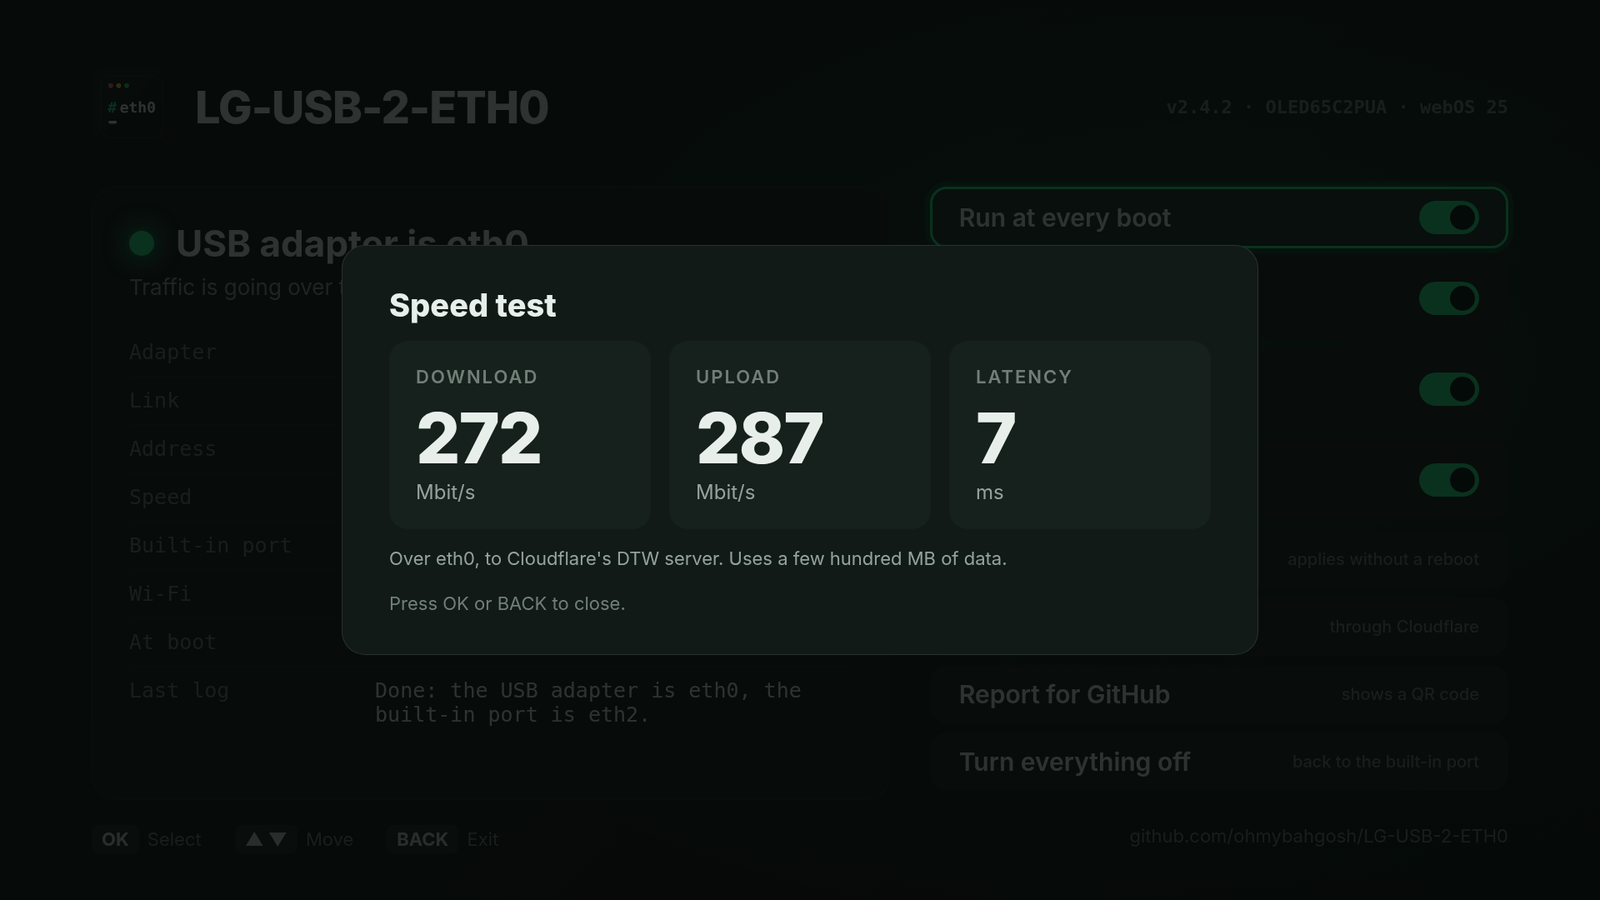
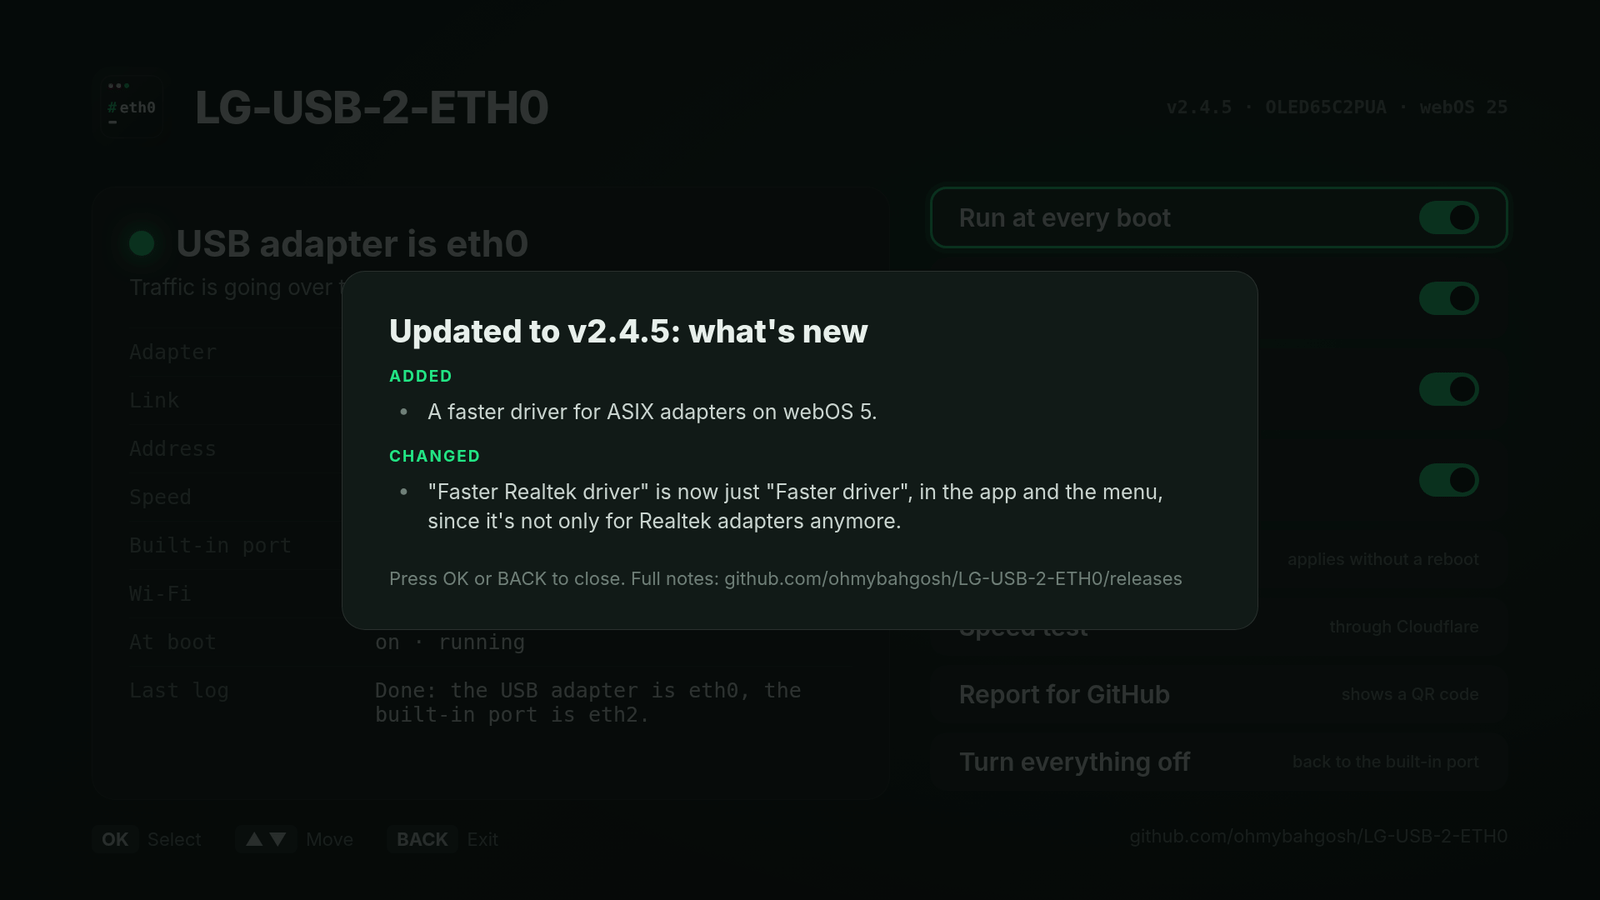
2.4.5: a faster driver for ASIX adapters on webOS 5
get-driver now offers OCT0PUSCRIME's build of ASIX's AX88179/178A driver
(v1.19.0) for kernel 4.4.84-612.jcl4tv.40 (2020 UN7300), whose kernel has
no ASIX driver.  It's pinned to a fixed commit and SHA-256 like the
others, and tested on a 55UN7300PUF with a TP-Link UE306 (discussion #3).

"Faster Realtek driver" is now "Faster driver" in the app and the menu,
and the app's confirm screen names whoever built the driver, from the new
driverPage field in status --json.  Screenshots retaken.

Changed region(s): [[0.2188, 0.3111, 0.75, 0.6844], [0.5938, 0.2489, 0.75, 0.28], [0.2812, 0.2489, 0.3125, 0.28]]

diff --git a/webos-app/src/app.js b/webos-app/src/app.js
@@ -225,7 +225,7 @@
         $('tog-watch').className = 'tog' + (bootOn && h.watch ? ' on' : '');
         $('tog-wifi').className = 'tog' + (bootOn && h.wifiFallback ? ' on' : '');
         // The faster-driver row only appears when it fits this TV: a driver is
-        // known for this exact kernel and the adapter is a Realtek one, or a
+        // known for this exact kernel and the adapter is one it supports, or a
         // driver is already set up (so it can be turned off again).
         var offer = s.driverOffer || 'none';
         var driverBtn = document.querySelector('[data-action="driver"]');
@@ -398,8 +398,9 @@
                     act('Faster driver off', installArgs('--no-module'));
                 });
             } else if (state.driverOffer === 'available') {
-                confirmThen('Use the faster Realtek driver?',
-                    'This downloads a driver module built for this exact TV kernel by DonZoomik (github.com/DonZoomik/webos-r8152), checks its checksum, and loads it at every boot.  ' +
+                var page = (state.driverPage || '').replace(/^https:\/\//, '');
+                confirmThen('Use the faster driver?',
+                    'This downloads a driver module built for this exact TV kernel' + (page ? ' by ' + page.split('/')[1] + ' (' + page + ')' : '') + ', checks its checksum, and loads it at every boot.  ' +
                     'Moving the adapter to it takes the network down for a moment.  Wi-Fi is a good way back in if anything goes wrong.',
                     function () {
                         act('Faster driver', 'get-driver -y && sh ' + shq(SCRIPT) + ' ' + installArgs('--module ' + shq(state.driverFile)) +
@@ -448,7 +449,7 @@
                         li('ok', 'The v1 hook is replaced, in place, by this version\'s: a link to the script inside this app, so updating the app updates the hook too.') +
                         li('ok', 'Nothing switches now.  The adapter stays as it is until the next boot.') +
                         li('ok', 'At boot, the new hook only changes anything when an adapter is plugged in, and puts the old names back if a step fails.') +
-                        li('', 'It starts with the defaults.  Turn on Faster Realtek driver, Follow plug and unplug or Wi-Fi as a backup afterwards if you want them.') +
+                        li('', 'It starts with the defaults.  Turn on Faster driver, Follow plug and unplug or Wi-Fi as a backup afterwards if you want them.') +
                         li('', wasOff ? 'This turns the boot hook on.  Prefer it off?  Turn off Run at every boot afterwards.' : 'To undo everything later, use Turn everything off.') + '</ul>',
                         'Press OK to upgrade, or BACK to cancel.', upgradeNow);
                 });

diff --git a/webos-app/src/index.html b/webos-app/src/index.html
@@ -25,7 +25,7 @@
       <div class="btn btn-update" tabindex="0" data-action="upgrade" style="display:none"><span><span class="upd-title">Upgrade from v1</span><small>replaces the old boot hook, step by step</small></span></div>
       <div class="btn btn-update" tabindex="0" data-action="update" style="display:none"><span><span id="update-title">Update</span><small id="update-hint"></small></span></div>
       <div class="btn" tabindex="0" data-action="boot">Run at every boot <span class="tog" id="tog-boot"></span></div>
-      <div class="btn" tabindex="0" data-action="driver"><span>Faster Realtek driver<small id="driver-hint"></small></span> <span class="tog" id="tog-driver"></span></div>
+      <div class="btn" tabindex="0" data-action="driver"><span>Faster driver<small id="driver-hint"></small></span> <span class="tog" id="tog-driver"></span></div>
       <div class="btn" tabindex="0" data-action="watch"><span>Follow plug and unplug<small>from the next boot</small></span> <span class="tog" id="tog-watch"></span></div>
       <div class="btn" tabindex="0" data-action="wifi"><span>Wi-Fi as a backup<small>if the cable stops working</small></span> <span class="tog" id="tog-wifi"></span></div>
       <div class="btn" tabindex="0" data-action="apply">Switch now <small>applies without a reboot</small></div>

diff --git a/scripts/screenshots/demo.js b/scripts/screenshots/demo.js
@@ -8,7 +8,7 @@
 (function () {
   var p = new URLSearchParams(location.search);
   // The newest release, and the version the screenshots run
-  var LATEST = '2.4.4';
+  var LATEST = '2.4.5';
   var ver = p.get('ver') || LATEST;
   var withSpeed = p.get('speed') !== '0';
   var status = {
@@ -18,7 +18,7 @@
     adapterIsEth0: true,
     builtin: { name: 'eth2', driver: 'lg1k_eth', mac: '', carrier: false, speed: 0, ip: '' },
     wifi: { name: 'wlan0', driver: 'mtk', mac: '', carrier: false, speed: 0, ip: '' },
-    defaultRoute: 'eth0', knownDriver: true, driverOffer: 'active', driverFile: '/home/root/lg-usb-2-eth0/r8152_oot.ko', driverDownloaded: true, autobindHook: false,
+    defaultRoute: 'eth0', knownDriver: true, driverOffer: 'active', driverFile: '/home/root/lg-usb-2-eth0/r8152_oot.ko', driverPage: 'https://github.com/DonZoomik/webos-r8152', driverDownloaded: true, autobindHook: false,
     speed: withSpeed ? { interface: 'eth0', server: 'DTW', pingMs: 7, downMbps: 272, upMbps: 287, at: 0 } : null,
     updatedTo: p.get('whatsnew') ? ver : '',
     issues: [], notes: [],

diff --git a/README.md b/README.md
@@ -33,7 +33,7 @@ This script renames the adapter to `eth0` and parks the built-in port under anot
 > - **Checked downloads:** driver modules and updates come from fixed releases or commits and are kept only if their SHA-256 matches.  A driver is only loaded on the exact kernel it was built for, and only offered for adapters it supports.
 > - **Hard to break the TV:** no system files are touched, the boot hook is a link that stops running if the app is removed, every change has a fallback, and a reboot without the hook always starts clean.
 >
-> The driver modules `get-driver` offers aren't part of this code: [DonZoomik](https://github.com/DonZoomik/webos-r8152) and [mbenitez343](https://github.com/mbenitez343/lg-webos-2024-ethernet-fix) built them, and this script only checks and loads them.  Commits list me as the author and Claude as the committer, which is why they show as Verified.  Found a problem?  See [SECURITY.md](SECURITY.md) or open an issue.
+> The driver modules `get-driver` offers aren't part of this code: [DonZoomik](https://github.com/DonZoomik/webos-r8152), [mbenitez343](https://github.com/mbenitez343/lg-webos-2024-ethernet-fix) and [OCT0PUSCRIME](https://github.com/OCT0PUSCRIME/lg-webos-ax88179-driver) built them, and this script only checks and loads them.  Commits list me as the author and Claude as the committer, which is why they show as Verified.  Found a problem?  See [SECURITY.md](SECURITY.md) or open an issue.
 
 ## Contents
 
@@ -43,7 +43,7 @@ This script renames the adapter to `eth0` and parks the built-in port under anot
 - [Commands and options](#commands-and-options)
 - [How it works](#how-it-works)
 - [Choosing an adapter](#choosing-an-adapter)
-- [A faster driver for Realtek adapters](#a-faster-driver-for-realtek-adapters)
+- [A faster driver](#a-faster-driver)
 - [webOS compatibility](#webos-compatibility)
 - [Real speeds](#real-speeds)
 - [Troubleshooting](#troubleshooting)
@@ -63,7 +63,7 @@ The easiest way in.  It runs the same script underneath, as root through the Hom
 
 <table>
   <tr>
-    <td width="50%"><img src="assets/screenshots/app-home.png" alt="Status screen: USB adapter is eth0, Realtek RTL8156 on r8152_oot, 1000 Mbit/s link over USB 2.0, with switches for Run at every boot, Faster Realtek driver, Follow plug and unplug, and Wi-Fi as a backup" /></td>
+    <td width="50%"><img src="assets/screenshots/app-home.png" alt="Status screen: USB adapter is eth0, Realtek RTL8156 on r8152_oot, 1000 Mbit/s link over USB 2.0, with switches for Run at every boot, Faster driver, Follow plug and unplug, and Wi-Fi as a backup" /></td>
     <td width="50%"><img src="assets/screenshots/app-speed.png" alt="Speed test result: 272 Mbit/s download, 287 Mbit/s upload, 7 ms latency, over eth0 to Cloudflare" /></td>
   </tr>
   <tr>
@@ -84,7 +84,7 @@ The easiest way in.  It runs the same script underneath, as root through the Hom
 
 - **Status at a glance:** whether the adapter is `eth0`, its driver, link speed, USB bus, address, Wi-Fi, and any problems found, like a cable that only connects at 100 Mbit/s.
 - **Run at every boot**, **Follow plug and unplug**, **Wi-Fi as a backup** and **Switch now**, as on/off switches.
-- **Faster Realtek driver:** only shows up when a driver is known for your TV's exact kernel and a Realtek adapter is plugged in.  It downloads, checks and sets up the driver in one go.
+- **Faster driver:** only shows up when a driver is known for your TV's exact kernel and an adapter it supports is plugged in.  It downloads, checks and sets up the driver in one go.
 - **Speed test:** download, upload and latency through the TV's current connection, against Cloudflare's nearest server.
 - **Report for GitHub:** a QR code that opens a compatibility report on your phone with your TV, adapter, speed and the full report already filled in (MAC addresses hidden).
 - **Updates:** tells you when a new version is out.  If you installed through the Homebrew Channel repo below, the update comes from there.  Otherwise the app downloads it, checks its SHA-256, and installs it itself.  Either way, the new version opens with a short list of what's new.
@@ -194,7 +194,7 @@ This sample comes from the test suite, with example TV details filled in.  Your 
 | `disable` / `enable` | Keeps the hook but stops it running at boot, or turns it back on. |
 | `status` / `doctor` | Read-only report and checks.  Safe to run any time. |
 | `report` | Short, paste-ready report for a GitHub issue.  MAC addresses are masked. |
-| `get-driver` | Downloads a better driver module, if one is known to work on your exact kernel, and checks its checksum.  With `--file PATH`, checks and uses a copy you downloaded yourself.  See [A faster driver](#a-faster-driver-for-realtek-adapters). |
+| `get-driver` | Downloads a better driver module, if one is known to work on your exact kernel, and checks its checksum.  With `--file PATH`, checks and uses a copy you downloaded yourself.  See [A faster driver](#a-faster-driver). |
 | `speedtest` | Latency, download and upload through the TV's current connection, against Cloudflare's nearest server.  Four streams for about six seconds each way, so it uses a few hundred MB.  The last result shows up in `report` and the app. |
 | `update` | Checks for a newer release and installs it, after checking its SHA-256.  `--check` only checks.  Inside the app, it updates the whole app.  On its own, the script replaces itself (and the boot hook's copy).  Your settings stay. |
 
@@ -205,7 +205,7 @@ This sample comes from the test suite, with example TV details filled in.  Your 
 | `--watch` | Keep watching after boot.  Plug the adapter in and it becomes `eth0`; unplug it and `eth0` goes back to the built-in port.  Starts from the next boot. |
 | `--mac aa:bb:cc:dd:ee:ff` | Only ever promote that adapter.  Handy with more than one adapter. |
 | `--wait 120` | Seconds the boot hook waits for the adapter to appear. |
-| `--module /path/driver.ko` | Load this driver module at boot, and move the adapter from the generic `cdc_ncm` driver over to it.  Refuses a module built for another kernel.  See [A faster driver](#a-faster-driver-for-realtek-adapters). |
+| `--module /path/driver.ko` | Load this driver module at boot, and move the adapter from the generic `cdc_ncm` driver over to it.  Refuses a module built for another kernel.  See [A faster driver](#a-faster-driver). |
 | `--driver NAME` | The driver name the module registers, if it can't be read from the file.  Rarely needed. |
 | `--wifi-fallback` | Wi-Fi as a backup.  If `eth0` loses its cable link for a minute while Wi-Fi is off, turn Wi-Fi on, so the TV joins a network it already knows.  Once the cable works again for 30 seconds, turn Wi-Fi back off, so traffic returns to the adapter.  It only turns Wi-Fi off if it turned it on.  Starts from the next boot. |
 | `--no-watch`, `--no-module`, `--no-mac`, `--no-wifi-fallback` | Turn that setting off again. |
@@ -234,7 +234,7 @@ It logs to `/var/lib/webosbrew/lg-usb-2-eth0.log` (it starts over once it reache
 What decides whether this works on your TV is **whether its kernel has a driver for your adapter's chip**.  That varies by model and firmware, not just by webOS version.  The chip matters more than the brand.
 
 - **Realtek RTL8153 (gigabit) and RTL8156 (2.5G):** the most common chips.  Newer kernels may only have the generic `cdc_ncm` driver for them, which works but is slower.
-- **ASIX AX88179:** works out of the box on many TVs, using the TV's own `ax88179_178a` driver.  Confirmed on a 2024 G4 with webOS 25 ([#2](https://github.com/ohmybahgosh/LG-USB-2-ETH0/issues/2)), but there's also one report of an AX88179A not being detected on a 2025 B5 with webOS 25.
+- **ASIX AX88179:** works out of the box on many TVs, using the TV's own `ax88179_178a` driver.  On a 2020 UN7300 (webOS 5), which has none, `get-driver` offers one ([discussion #3](https://github.com/ohmybahgosh/LG-USB-2-ETH0/discussions/3)).  Confirmed on a 2024 G4 with webOS 25 ([#2](https://github.com/ohmybahgosh/LG-USB-2-ETH0/issues/2)), but there's also one report of an AX88179A not being detected on a 2025 B5 with webOS 25.
 - **USB 2.0 is fine.**  Many LG TVs, the C2 included, only have USB 2.0 ports.  There you'll top out around 300 Mbit/s, still about three times the built-in port.  If your TV does have a USB 3.0 port (usually the blue one), use it for more.
 
 ### Tested adapters
@@ -244,6 +244,7 @@ Adapters confirmed on a real TV.  Plain links: no affiliate codes, no sponsorshi
 | Adapter | Chip | Tested on | Result |
 |---------|------|-----------|--------|
 | [UGREEN USB-C to 2.5G Ethernet (Amazon)](https://www.amazon.com/dp/B0CD1FDKT1) | Realtek RTL8156BG (`0bda:8156`) | 2022 C2, webOS 25, USB 2.0 port | Works.  272 Mbit/s down, 287 up with `r8152_oot` (it's on `cdc_ncm` without it) |
+| TP-Link UE306 V1.6 ([discussion #3](https://github.com/ohmybahgosh/LG-USB-2-ETH0/discussions/3)) | ASIX AX88179 (`0b95:1790`) | 2020 UN7300 (55UN7300PUF), webOS 5, USB 2.0 port | Works with OCT0PUSCRIME's `ax88179_178a` build from `get-driver`, since that kernel has no ASIX driver.  228 Mbit/s down, 325 up |
 | ASIX AX88179 adapter ([#2](https://github.com/ohmybahgosh/LG-USB-2-ETH0/issues/2)) | ASIX AX88179/178A (`0b95:1790`) | 2024 G4 (OLED65G48LW), webOS 25, USB 2.0 port | Works out of the box on the TV's own `ax88179_178a` driver, no extra driver needed.  292 Mbit/s down, 51 up |
 
 It has a USB-C plug, and LG TVs have USB-A ports, so it's plugged in through a small USB-C (female) to USB-A (male) adapter ([this 4-pack on Amazon](https://www.amazon.com/dp/B0BJ8YQ2LM)).  That's not the ideal setup: it's just what the author had on hand, and it works.  Those little adapters are USB 2.0, which is all the C2's port can do anyway, but on a TV with a USB 3.0 port they'd hold the adapter back.  If you're buying, get a USB-A adapter like the ones below and skip the converter.
@@ -262,7 +263,7 @@ Got another adapter working?  [Send a compatibility report](https://github.com/o
 
 Before buying, run `sh LG-USB-2-ETH0.sh status`.  It lists which USB network drivers your kernel has.  If you already have an adapter that isn't working, `status` tells you when the kernel sees it but has no driver for it.
 
-## A faster driver for Realtek adapters
+## A faster driver
 
 Many TVs give Realtek RTL8153 and RTL8156 adapters to the generic `cdc_ncm` driver.  It works, but it's slower and drops out under load.  The TV's own Realtek driver is often too old to recognize newer chips, and because it's built into the kernel, it can't be swapped out.  A newer Realtek driver, built for your exact kernel under a different name, fixes that.
 
@@ -281,12 +282,19 @@ sh LG-USB-2-ETH0.sh get-driver
 sh LG-USB-2-ETH0.sh install --module /home/root/lg-usb-2-eth0/drivers/r8152.ko
 ```
 
-`get-driver` only offers a module for the exact kernel it was built for, and only when an adapter it supports is plugged in (it checks the adapter's USB ID against the module's own list).  It downloads from a fixed commit of the author's repository and keeps the file only if its SHA-256 matches.  The modules come from those projects, not this one, so credit and thanks go to DonZoomik and mbenitez343.
+**2020 TVs on webOS 5 (UN7300) with an ASIX adapter:** the kernel has no ASIX driver, so an AX88179 adapter gets no driver at all.  [OCT0PUSCRIME](https://github.com/OCT0PUSCRIME/lg-webos-ax88179-driver) built ASIX's own AX88179/178A driver (v1.19.0) for kernel `4.4.84-612.jcl4tv.40`, and it works on a 55UN7300PUF with a TP-Link UE306 ([discussion #3](https://github.com/ohmybahgosh/LG-USB-2-ETH0/discussions/3)).  Same commands, with that file:
+
+```sh
+sh LG-USB-2-ETH0.sh get-driver
+sh LG-USB-2-ETH0.sh install --module /home/root/lg-usb-2-eth0/drivers/ax88179_178a.ko
+```
+
+`get-driver` only offers a module for the exact kernel it was built for, and only when an adapter it supports is plugged in (it checks the adapter's USB ID against the module's own list).  It downloads from a fixed commit of the author's repository and keeps the file only if its SHA-256 matches.  The modules come from those projects, not this one, so credit and thanks go to DonZoomik, mbenitez343 and OCT0PUSCRIME.
 
 What LG-USB-2-ETH0 does with it:
 
 - **Moves the adapter over.**  The kernel may still give the adapter to a generic driver first (`cdc_ncm`, or `cdc_ether` on TVs with no Realtek driver), so the script releases it and binds it to the new driver.  If that doesn't work within a few seconds, the adapter goes back where it was.  Only adapters the module lists as supported are moved, so a phone tethered over USB is never touched.
-- **Turns off scatter-gather** on the new driver.  In DonZoomik's testing, it made the TV's USB controller hang after a while.
+- **Turns off scatter-gather** on Realtek's driver.  In DonZoomik's testing, it made the TV's USB controller hang after a while.
 - **Never forces anything.**  A module built for another kernel is refused before it's loaded.  Each adapter gets one try per boot, so a driver that doesn't support it can't cause repeated drops.
 
 **Set up Wi-Fi on the TV first.**  Moving drivers takes the adapter offline for a moment, and Wi-Fi is your way back in if something goes wrong.  A reboot always undoes a live switch, and `uninstall` removes it for good.
@@ -302,6 +310,7 @@ The script only needs root, the Homebrew Channel, `ip` and `/sys`, which every r
 | webOS | What people have reported | Source |
 |-------|---------------------------|--------|
 | webOS 3.5 / 4 (2017 and 2018: B7, C7, C8) | ASIX-based adapters (Cable Matters USB 3.0) work out of the box.  TP-Link UE300 (RTL8153) didn't work on C7 or C8.  Settings show "no connection" while apps work, which is what this script fixes. | [lgwebos.com thread](https://www.lgwebos.com/topic/3395-gigabit-ethernet-on-smart-tv/page/2/) |
+| webOS 5 (5.5.0) on a 2020 UN7300 (55UN7300PUF), kernel `4.4.84-612.jcl4tv.40` | No ASIX driver in the kernel.  A TP-Link UE306 (AX88179, `0b95:1790`) works with OCT0PUSCRIME's `ax88179_178a` build, which `get-driver` offers, and LG-USB-2-ETH0 makes it `eth0`.  228 Mbit/s down, 325 up over USB 2.0. | [Discussion #3](https://github.com/ohmybahgosh/LG-USB-2-ETH0/discussions/3), [OCT0PUSCRIME/lg-webos-ax88179-driver](https://github.com/OCT0PUSCRIME/lg-webos-ax88179-driver) |
 | webOS 24 | Where this script was first written. | |
 | webOS 25 on a 2024 C4 | RTL8153 and RTL8156 adapters come up through the generic `cdc_ncm` driver.  They work, but slower and with drops.  A community-built `r8152` module helps. | [DonZoomik/webos-r8152](https://github.com/DonZoomik/webos-r8152) |
 | webOS 25 (10.3.1, firmware 33.31.68) on a 2022 C2 (OLED65C2PUA), kernel `5.4.268-329.ptl4tv.5` | Tested by the author.  An RTL8156 adapter (`0bda:8156`) comes up on `cdc_ncm`, and LG-USB-2-ETH0 makes it `eth0`.  With `r8152_oot` from `get-driver` and `install --module`, it's confirmed through a full reboot: at startup the hook loads the driver, moves the adapter over on the first try, turns scatter-gather off and makes it `eth0`, with traffic going out the adapter.  The C2's USB port runs at USB 2.0 speed. | This repo |
@@ -420,7 +429,7 @@ AI-assisted pull requests are welcome too, held to the same standard as the rest
 
 A big thank you to **[DonZoomik](https://github.com/DonZoomik)** for [webos-r8152](https://github.com/DonZoomik/webos-r8152).  He found the right kernel source in LG's open-source bundles, built Realtek's current driver for webOS 25 under its own name so it can sit beside the TV's built-in one, and tracked down the scatter-gather setting that hangs the TV's USB controller.  He also published careful benchmarks.  That work is what turns a USB adapter on these TVs from "works, but drops out" into a steady connection, and `get-driver` and `--module` are built on it.  If it helps you too, go give his repo a star.
 
-Thanks to **[mbenitez343](https://github.com/mbenitez343/lg-webos-2024-ethernet-fix)** too, for building and sharing the `r8152` driver that brings wired USB Ethernet back to 2024 LG TVs.
+Thanks to **[mbenitez343](https://github.com/mbenitez343/lg-webos-2024-ethernet-fix)** too, for building and sharing the `r8152` driver that brings wired USB Ethernet back to 2024 LG TVs, and to **[OCT0PUSCRIME](https://github.com/OCT0PUSCRIME/lg-webos-ax88179-driver)** for building ASIX's driver for webOS 5 and testing it with LG-USB-2-ETH0.
 
 Thanks also to the [webOS Homebrew](https://www.webosbrew.org/) project for the Homebrew Channel and the startup hooks this script relies on, and to [RootMyTV](https://rootmy.tv/) for making rooting possible.
 

diff --git a/CHANGELOG.md b/CHANGELOG.md
@@ -2,6 +2,16 @@
 
 All notable changes to LG-USB-2-ETH0.  Versions follow [semantic versioning](https://semver.org/).
 
+## [2.4.5] - 2026-11-04
+
+### Added
+
+- **A faster driver for ASIX adapters on webOS 5.**  `get-driver` (and the app's Faster driver switch) now offers [OCT0PUSCRIME's](https://github.com/OCT0PUSCRIME/lg-webos-ax88179-driver) build of ASIX's AX88179/178A driver for kernel `4.4.84-612.jcl4tv.40` (2020 UN7300), whose kernel has no ASIX driver.  Like the others, it's pinned to a fixed commit and kept only if its SHA-256 matches, and only offered when an adapter it supports is plugged in.  Tested on a 55UN7300PUF with a TP-Link UE306 ([discussion #3](https://github.com/ohmybahgosh/LG-USB-2-ETH0/discussions/3)).
+
+### Changed
+
+- "Faster Realtek driver" is now just "Faster driver", in the app and the menu, since it's not only for Realtek adapters anymore.  The app's confirm screen names whoever built the driver for that TV.
+
 ## [2.4.4] - 2026-11-04
 
 ### Changed
